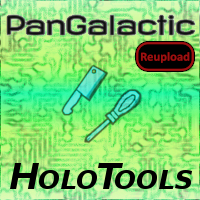
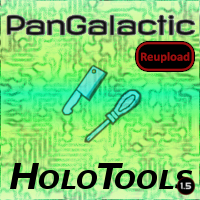
Mod updated for 1.5 and passed autotests

Changed region(s): [[0.87, 0.87, 0.99, 0.99]]

diff --git a/README.md b/README.md
@@ -29,11 +29,13 @@ https://steamcommunity.com/sharedfiles/filedetails/?id=1373760747
 
 -  See if the the error persists if you just have this mod and its requirements active.
 -  If not, try adding your other mods until it happens again.
--  Post your error-log using https://steamcommunity.com/workshop/filedetails/?id=818773962]HugsLib and command Ctrl+F12
+-  Post your error-log using https://steamcommunity.com/workshop/filedetails/?id=818773962]HugsLib or the standalone https://steamcommunity.com/sharedfiles/filedetails/?id=2873415404]Uploader and command Ctrl+F12
 -  For best support, please use the Discord-channel for error-reporting.
 -  Do not report errors by making a discussion-thread, I get no notification of that.
 -  If you have the solution for a problem, please post it to the GitHub repository.
+-  Use https://github.com/RimSort/RimSort/releases/latest]RimSort to sort your mods
 
 
 
+https://steamcommunity.com/sharedfiles/filedetails/changelog/2165044824]![Image](https://img.shields.io/github/v/release/emipa606/PGHoloTools?label=latest%20version&style=plastic&color=9f1111&labelColor=black)
 
